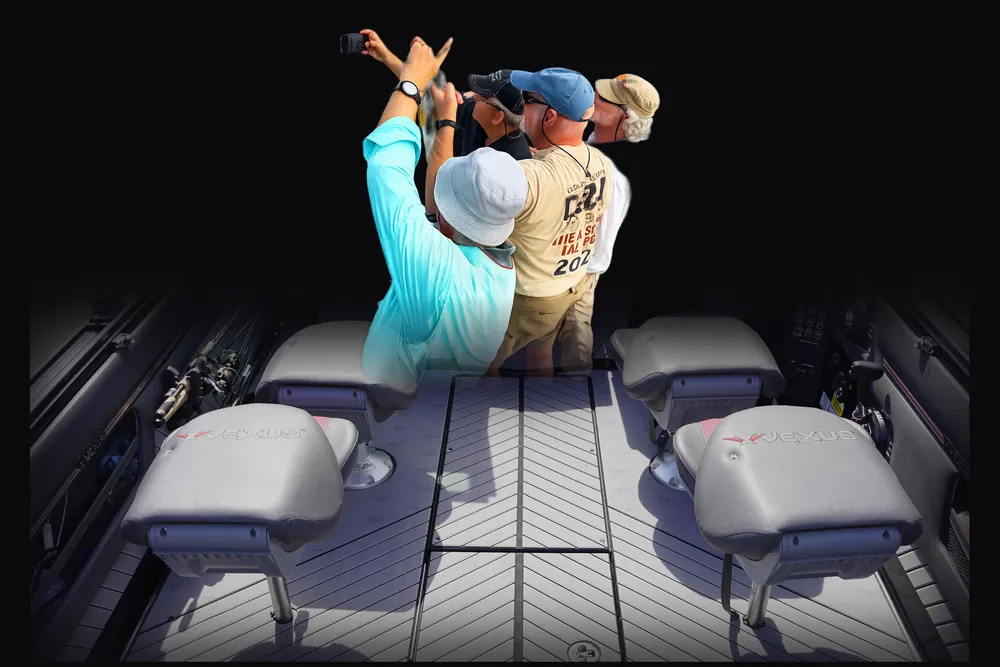
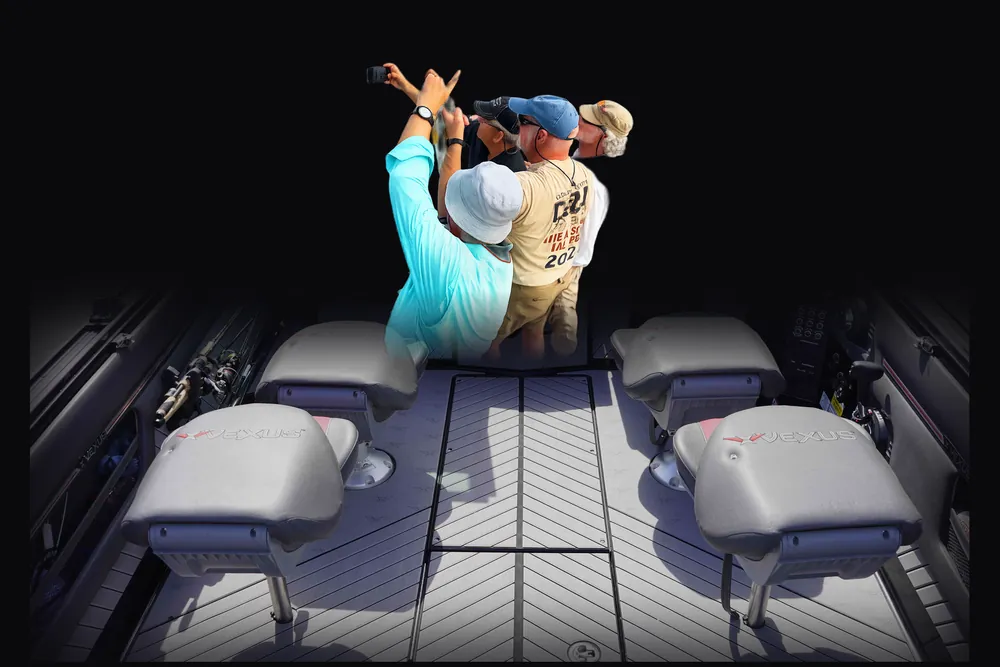
Crew scene: back the zoom off the group (#9)
Group scaled down (0.60 -> 0.50 of frame) and seated deeper so the
cockpit interior stays dominant, and the scroll Ken Burns is softened
(1.17->1.08 start, ends at 1.0) so the camera never gets tight on the
selfie. Contact shadow and vignette rebalanced to match.

Claude-Session: https://claude.ai/code/session_011ZYLDhWo2cpenrRTQqd7ds

Changed region(s): [[0.341, 0.03, 0.682, 0.5697], [0.465, 0.5997, 0.558, 0.6297]]

diff --git a/index.html b/index.html
@@ -580,7 +580,7 @@ const PHOTO_IDXS=[3,5,6];       // pf, pc, pl — full-frame stills; boat fades 
    pl: slow push-in onto the Vexus emblem.  x,y are % of viewport; s is scale. */
 const KENS=[
   {img:$('#pc-img'), a:0.600, b:0.716, s0:1.02, s1:1.15, x0:0, x1:0, y0:1.6, y1:-1.6},  // push in toward the helm
-  {img:$('#pl-img'), a:0.712, b:0.800, s0:1.17, s1:1.03, x0:0, x1:0, y0:-1.2, y1:0.8}   // pull back — reveal the room
+  {img:$('#pl-img'), a:0.712, b:0.800, s0:1.08, s1:1.00, x0:0, x1:0, y0:-0.8, y1:0.5}   // gentle pull back — never tight on the crew
 ];
 
 /* anchored callouts: ax,ay in boat-image fractions */
